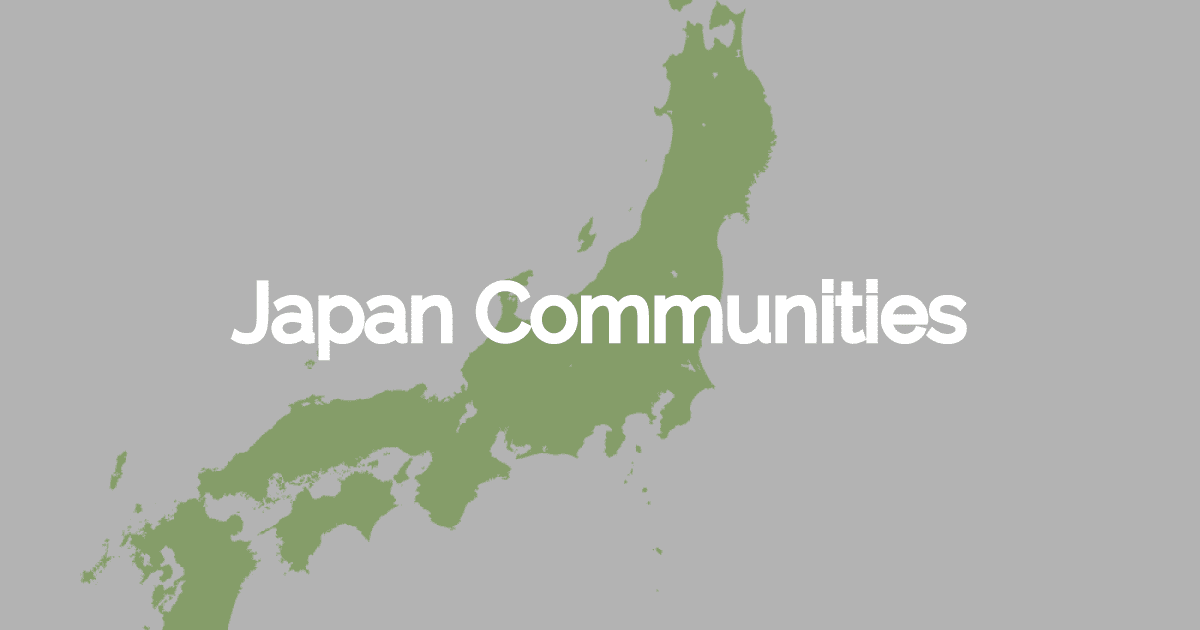
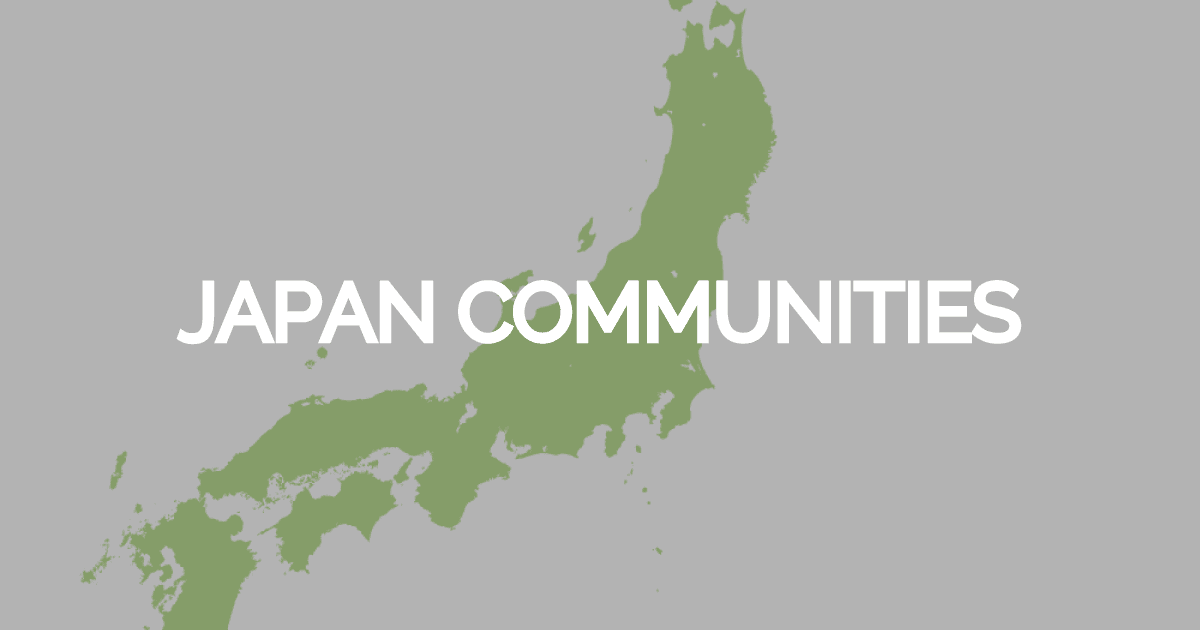
Restore production-only site updates

Changed region(s): [[0.1233, 0.4222, 0.8633, 0.573]]

diff --git a/resources/views/toppage.blade.php b/resources/views/toppage.blade.php
@@ -1,10 +1,10 @@
 @extends('layouts.toppage')
 
 @section('title', 'GAKUTOのニュースタイルハッスル情報部屋')
-@section('metadescription', 'GAKUTOのニュースタイルハッスル情報部屋は、日本のニュースタイルハッスルの情報を紹介します。<br>ニュースタイルハッスルが日本中に広がることを願っています。')
+@section('metadescription', 'GAKUTOのニュースタイルハッスル情報部屋は、日本のニュースタイルハッスル（NEW STYLE HUSTLE）の情報を紹介します。ニュースタイルハッスルが日本中に広がることを願っています。')
 @section("ogtitle", "GAKUTOのニュースタイルハッスル情報部屋 | GAKUTO'S NEW STYLE HUSTLE INFORMATION ROOM")
 @section('ogurl'){{ url('/') }}@endsection
-@section('ogimage'){{ asset('img/newstylehustlejapanwebsite-eyecatch.png')}}@endsection
+@section('ogimage'){{ asset('img/gakuto-newstylehustle-eyecatch.png')}}@endsection
 
 @section('content')
 　　<div class="container-head mx-auto">　　
@@ -135,8 +135,9 @@
                         <div class="chubu region">
                             <h3 class="region-name">中部地方 (Chubu region)</h3>
                             <div class="chubu-list">
-                        　      <a href="{{ action('ReadingPageController@communityshow',['permalink' => 'aichi'])}}" class="chubu-btn"><span class="pref-btn1">愛知</span><br><span class="pref-btn2">(Aichi)</span></a>
-                        　      <a href="{{ action('ReadingPageController@communityshow',['permalink' => 'yamanashi'])}}" class="chubu-btn"><span class="pref-btn1">山梨</span><br><span class="pref-btn2">(Yamanashi)</span></a>
+                       　      <a href="{{ action('ReadingPageController@communityshow',['permalink' => 'aichi'])}}" class="chubu-btn"><span class="pref-btn1">愛知</span><br><span class="pref-btn2">(Aichi)</span></a>
+                       　      <a href="{{ action('ReadingPageController@communityshow',['permalink' => 'yamanashi'])}}" class="chubu-btn"><span class="pref-btn1">山梨</span><br><span class="pref-btn2">(Yamanashi)</span></a>
+                                  <a href="{{ action('ReadingPageController@communityshow',['permalink' => 'niigata'])}}" class="chubu-btn"><span class="pref-btn1">新潟</span><br><span class="pref-btn2">(Niigata)</span></a>
                             </div>
                         </div>
                         <div class="kansai region">
@@ -160,6 +161,7 @@
                         <div class="kyushu-okinawa region">
                       　    <h3 class="region-name">九州・沖縄地方 (kyushu & Okinawa region)</h3>
                             <div class="kyushu-okinawa-list">
+　　　　　　　　　   <a href="{{ action('ReadingPageController@communityshow',['permalink' => 'kanoya'])}}" class="kyushu-okinawa-btn"><span class="pref-btn1">鹿屋</span><br><span class="pref-btn2">(Kanoya)</span></a>
                     　　        <a href="{{ action('ReadingPageController@communityshow',['permalink' => 'okinawa'])}}" class="kyushu-okinawa-btn"><span class="pref-btn1">沖縄</span><br><span class="pref-btn2">(Okinawa)</span></a>
                             </div>
                         </div>

diff --git a/resources/views/aboutnewstylehustle.blade.php b/resources/views/aboutnewstylehustle.blade.php
@@ -219,7 +219,7 @@
                               　<h3>芸能界でも！</h3>
                                 <p>またZabu&Eriペアは</p>
                                 <ul>
-                                  <li>フジテレビ「ミュージックステーション」KREVA ダンサー出演</li>
+                                  <li>テレビ朝日「ミュージックステーション」KREVA ダンサー出演</li>
                                   <li>NHK Eテレ「Eダンスアカデミー」ゲスト出演</li>
                                   <li>EXILE USA 主催「Dance Earth Festival 2017」出演</li>
                                   <li>嵐アルバム「Untitled」リード曲「未完」MV振り付け</li>
@@ -274,6 +274,7 @@
                                             <div class="chubu-list">
                                         　      <a href="{{ action('ReadingPageController@communityshow',['permalink' => 'aichi'])}}" class="chubu-btn"><span class="pref-btn1">愛知</span><br><span class="pref-btn2">(Aichi)</span></a>
                                         　      <a href="{{ action('ReadingPageController@communityshow',['permalink' => 'yamanashi'])}}" class="chubu-btn"><span class="pref-btn1">山梨</span><br><span class="pref-btn2">(Yamanashi)</span></a>
+                                               <a href="{{ action('ReadingPageController@communityshow',['permalink' => 'niigata'])}}" class="chubu-btn"><span class="pref-btn1">新潟</span><br><span class="pref-btn2">(Niigata)</span></a>
                                             </div>
                                         </div>
                                         <div class="kansai region">
@@ -305,6 +306,7 @@
                                                 <p>九州・沖縄地方 (kyushu & Okinawa region)</p>
                                             </div>
                                             <div class="kyushu-okinawa-list">
+　　　　　　　　　　　　　　<a href="{{ action('ReadingPageController@communityshow',['permalink' => 'kanoya'])}}" class="kyushu-okinawa-btn"><span class="pref-btn1">鹿屋</span><br><span class="pref-btn2">(Kanoya)</span></a>
                                     　　        <a href="{{ action('ReadingPageController@communityshow',['permalink' => 'okinawa'])}}" class="kyushu-okinawa-btn"><span class="pref-btn1">沖縄</span><br><span class="pref-btn2">(Okinawa)</span></a>
                                             </div>
                                         </div>

diff --git a/resources/views/indexcommunity.blade.php b/resources/views/indexcommunity.blade.php
@@ -10,7 +10,7 @@
 
 @section('content')
     <div class="title_box">
-        <h1>Japan Communities</h1>
+        <h1>JAPAN COMMUNITIES</h1>
     </div>
     <div class="container">
         <div class="row">
@@ -51,8 +51,9 @@
                                 <p>中部地方 (Chubu region)</p>
                             </div>
                             <div class="chubu-list">
-                        　      <a href="{{ action('ReadingPageController@communityshow',['permalink' => 'aichi'])}}" class="chubu-btn"><span class="pref-btn1">愛知</span><br><span class="pref-btn2">(Aichi)</span></a>
-                        　      <a href="{{ action('ReadingPageController@communityshow',['permalink' => 'yamanashi'])}}" class="chubu-btn"><span class="pref-btn1">山梨</span><br><span class="pref-btn2">(Yamanashi)</span></a>
+                       　      <a href="{{ action('ReadingPageController@communityshow',['permalink' => 'aichi'])}}" class="chubu-btn"><span class="pref-btn1">愛知</span><br><span class="pref-btn2">(Aichi)</span></a>
+                       　      <a href="{{ action('ReadingPageController@communityshow',['permalink' => 'yamanashi'])}}" class="chubu-btn"><span class="pref-btn1">山梨</span><br><span class="pref-btn2">(Yamanashi)</span></a>
+                                  <a href="{{ action('ReadingPageController@communityshow',['permalink' => 'niigata'])}}" class="chubu-btn"><span class="pref-btn1">新潟</span><br><span class="pref-btn2">(Niigata)</span></a>
                             </div>
                         </div>
                         <div class="kansai region">
@@ -84,6 +85,7 @@
                                 <p>九州・沖縄地方 (kyushu & Okinawa region)</p>
                             </div>
                             <div class="kyushu-okinawa-list">
+　　　　　　　　　   <a href="{{ action('ReadingPageController@communityshow',['permalink' => 'kanoya'])}}" class="kyushu-okinawa-btn"><span class="pref-btn1">鹿屋</span><br><span class="pref-btn2">(Kanoya)</span></a>
                     　　        <a href="{{ action('ReadingPageController@communityshow',['permalink' => 'okinawa'])}}" class="kyushu-okinawa-btn"><span class="pref-btn1">沖縄</span><br><span class="pref-btn2">(Okinawa)</span></a>
                             </div>
                         </div>

diff --git a/app/Http/Controllers/SitemapController.php b/app/Http/Controllers/SitemapController.php
@@ -1,0 +1,64 @@
+<?php
+
+namespace App\Http\Controllers;
+
+use App\Community;
+use App\News;
+use Illuminate\Http\Response;
+
+class SitemapController extends Controller
+{
+    public function __invoke(): Response
+    {
+        $lastModified = now()->toAtomString();
+        $entries = [
+            ['/', 'daily', '1.0'],
+            ['/about-newstylehustle', 'weekly', '0.8'],
+            ['/featured-video', 'weekly', '0.8'],
+            ['/news', 'weekly', '0.8'],
+        ];
+
+        foreach (News::query()->pluck('news_permalink') as $permalink) {
+            $entries[] = ['/news/'.$permalink, 'weekly', '0.8'];
+        }
+
+        $entries[] = ['/community', 'weekly', '0.8'];
+
+        foreach (Community::query()->pluck('permalink') as $permalink) {
+            $entries[] = ['/community/'.$permalink, 'weekly', '0.8'];
+        }
+
+        array_push(
+            $entries,
+            ['/lesson', 'weekly', '0.8'],
+            ['/contact', 'monthly', '0.8'],
+            ['/about', 'monthly', '0.8'],
+            ['/privacy_policy', 'monthly', '0.8'],
+            ['/disclaimer', 'monthly', '0.8'],
+        );
+
+        $urls = array_map(
+            function (array $entry) use ($lastModified): string {
+                [$path, $changeFrequency, $priority] = $entry;
+                $location = htmlspecialchars(url($path), ENT_XML1 | ENT_QUOTES, 'UTF-8');
+
+                return <<<XML
+                    <url>
+                        <loc>{$location}</loc>
+                        <lastmod>{$lastModified}</lastmod>
+                        <changefreq>{$changeFrequency}</changefreq>
+                        <priority>{$priority}</priority>
+                    </url>
+                XML;
+            },
+            $entries,
+        );
+
+        $xml = '<?xml version="1.0" encoding="UTF-8"?>'."\n";
+        $xml .= '<urlset xmlns="http://www.sitemaps.org/schemas/sitemap/0.9">'."\n";
+        $xml .= implode("\n", $urls)."\n";
+        $xml .= '</urlset>';
+
+        return response($xml, 200, ['Content-Type' => 'application/xml; charset=UTF-8']);
+    }
+}

diff --git a/tests/Feature/ExampleTest.php b/tests/Feature/ExampleTest.php
@@ -25,6 +25,8 @@ class ExampleTest extends TestCase
             '/communityrep_login',
             '/GcnJBe6DwdsK_register',
             '/password/reset',
+            '/sitemap',
+            '/sitemap.xml',
         ];
 
         foreach ($paths as $path) {
@@ -35,5 +37,32 @@ class ExampleTest extends TestCase
     public function testCommunityDashboardRequiresAuthentication(): void
     {
         $this->get('/communityrep')->assertRedirect('/communityrep_login');
+    }
+
+    public function testSitemapIncludesStaticAndDynamicPages(): void
+    {
+        \App\Community::create([
+            'user_id' => 1,
+            'permalink' => 'niigata',
+            'name' => '新潟コミュニティ',
+            'pref' => '新潟',
+        ]);
+        \App\News::create([
+            'user_id' => 1,
+            'news_permalink' => 'sample-news',
+            'news_title' => 'サンプルニュース',
+            'news_body' => '本文',
+        ]);
+
+        $response = $this->get('/sitemap');
+
+        $response
+            ->assertOk()
+            ->assertHeader('Content-Type', 'application/xml; charset=UTF-8')
+            ->assertSee('<loc>'.url('/').'</loc>', false)
+            ->assertSee('<loc>'.url('/community/niigata').'</loc>', false)
+            ->assertSee('<loc>'.url('/news/sample-news').'</loc>', false);
+
+        $this->assertNotFalse(simplexml_load_string($response->getContent()));
     }
 }

diff --git a/routes/web.php b/routes/web.php
@@ -9,6 +9,7 @@ use App\Http\Controllers\ContactsController;
 use App\Http\Controllers\HomeController;
 use App\Http\Controllers\ReadingPageController;
 use App\Http\Controllers\SearchController;
+use App\Http\Controllers\SitemapController;
 use Illuminate\Support\Facades\Route;
 use Illuminate\Support\Facades\URL;
 
@@ -59,3 +60,5 @@ Route::get('contact', [ContactsController::class, 'index']);
 Route::post('contact/confirm', [ContactsController::class, 'confirm']);
 Route::post('contact/correct', [ContactsController::class, 'correct']);
 Route::post('contact/complete', [ContactsController::class, 'complete']);
+Route::get('sitemap', SitemapController::class)->name('sitemap');
+Route::get('sitemap.xml', SitemapController::class);

diff --git a/resources/views/communityrep/communitycreate.blade.php b/resources/views/communityrep/communitycreate.blade.php
@@ -47,7 +47,6 @@
                             <input type="text" class="form-control" name="pref" value="{{ old('pref') }}">
                             <p>※例）宮城県なら→宮城、TYOなら→TYO、Zabu&Eriなら→Zabu&Eri</p>
                         </div>
-                        </div>
                     </div>
                     <div class="form-group row ">
                         <label class="col-md-2 label-title" for="information"><i class="fas fa-arrow-circle-right"></i>コミュニティ情報</label>

diff --git a/resources/views/emails/from.blade.php b/resources/views/emails/from.blade.php
@@ -1,7 +1,6 @@
-
 {{ $content['from_name'] }}様からGAKUTOのニュースタイルハッスル情報部屋へ以下の内容のお問い合わせがありました。
 
-確認のほどよろしくお願いよろしくお願いいたします。
+確認のほどよろしくお願いいたします。
 ※送信者様には通常3日以内に返信すると伝えています。
 
 ━━━━━━□■□　お問い合わせ内容　□■□━━━━━━

diff --git a/resources/views/disclaimer.blade.php b/resources/views/disclaimer.blade.php
@@ -44,6 +44,5 @@
           <button type="button" onclick="history.back()" class="btn-flat-border">戻る</button>
        </div>
     </div>
-    </div>
 </div>
 @endsection
